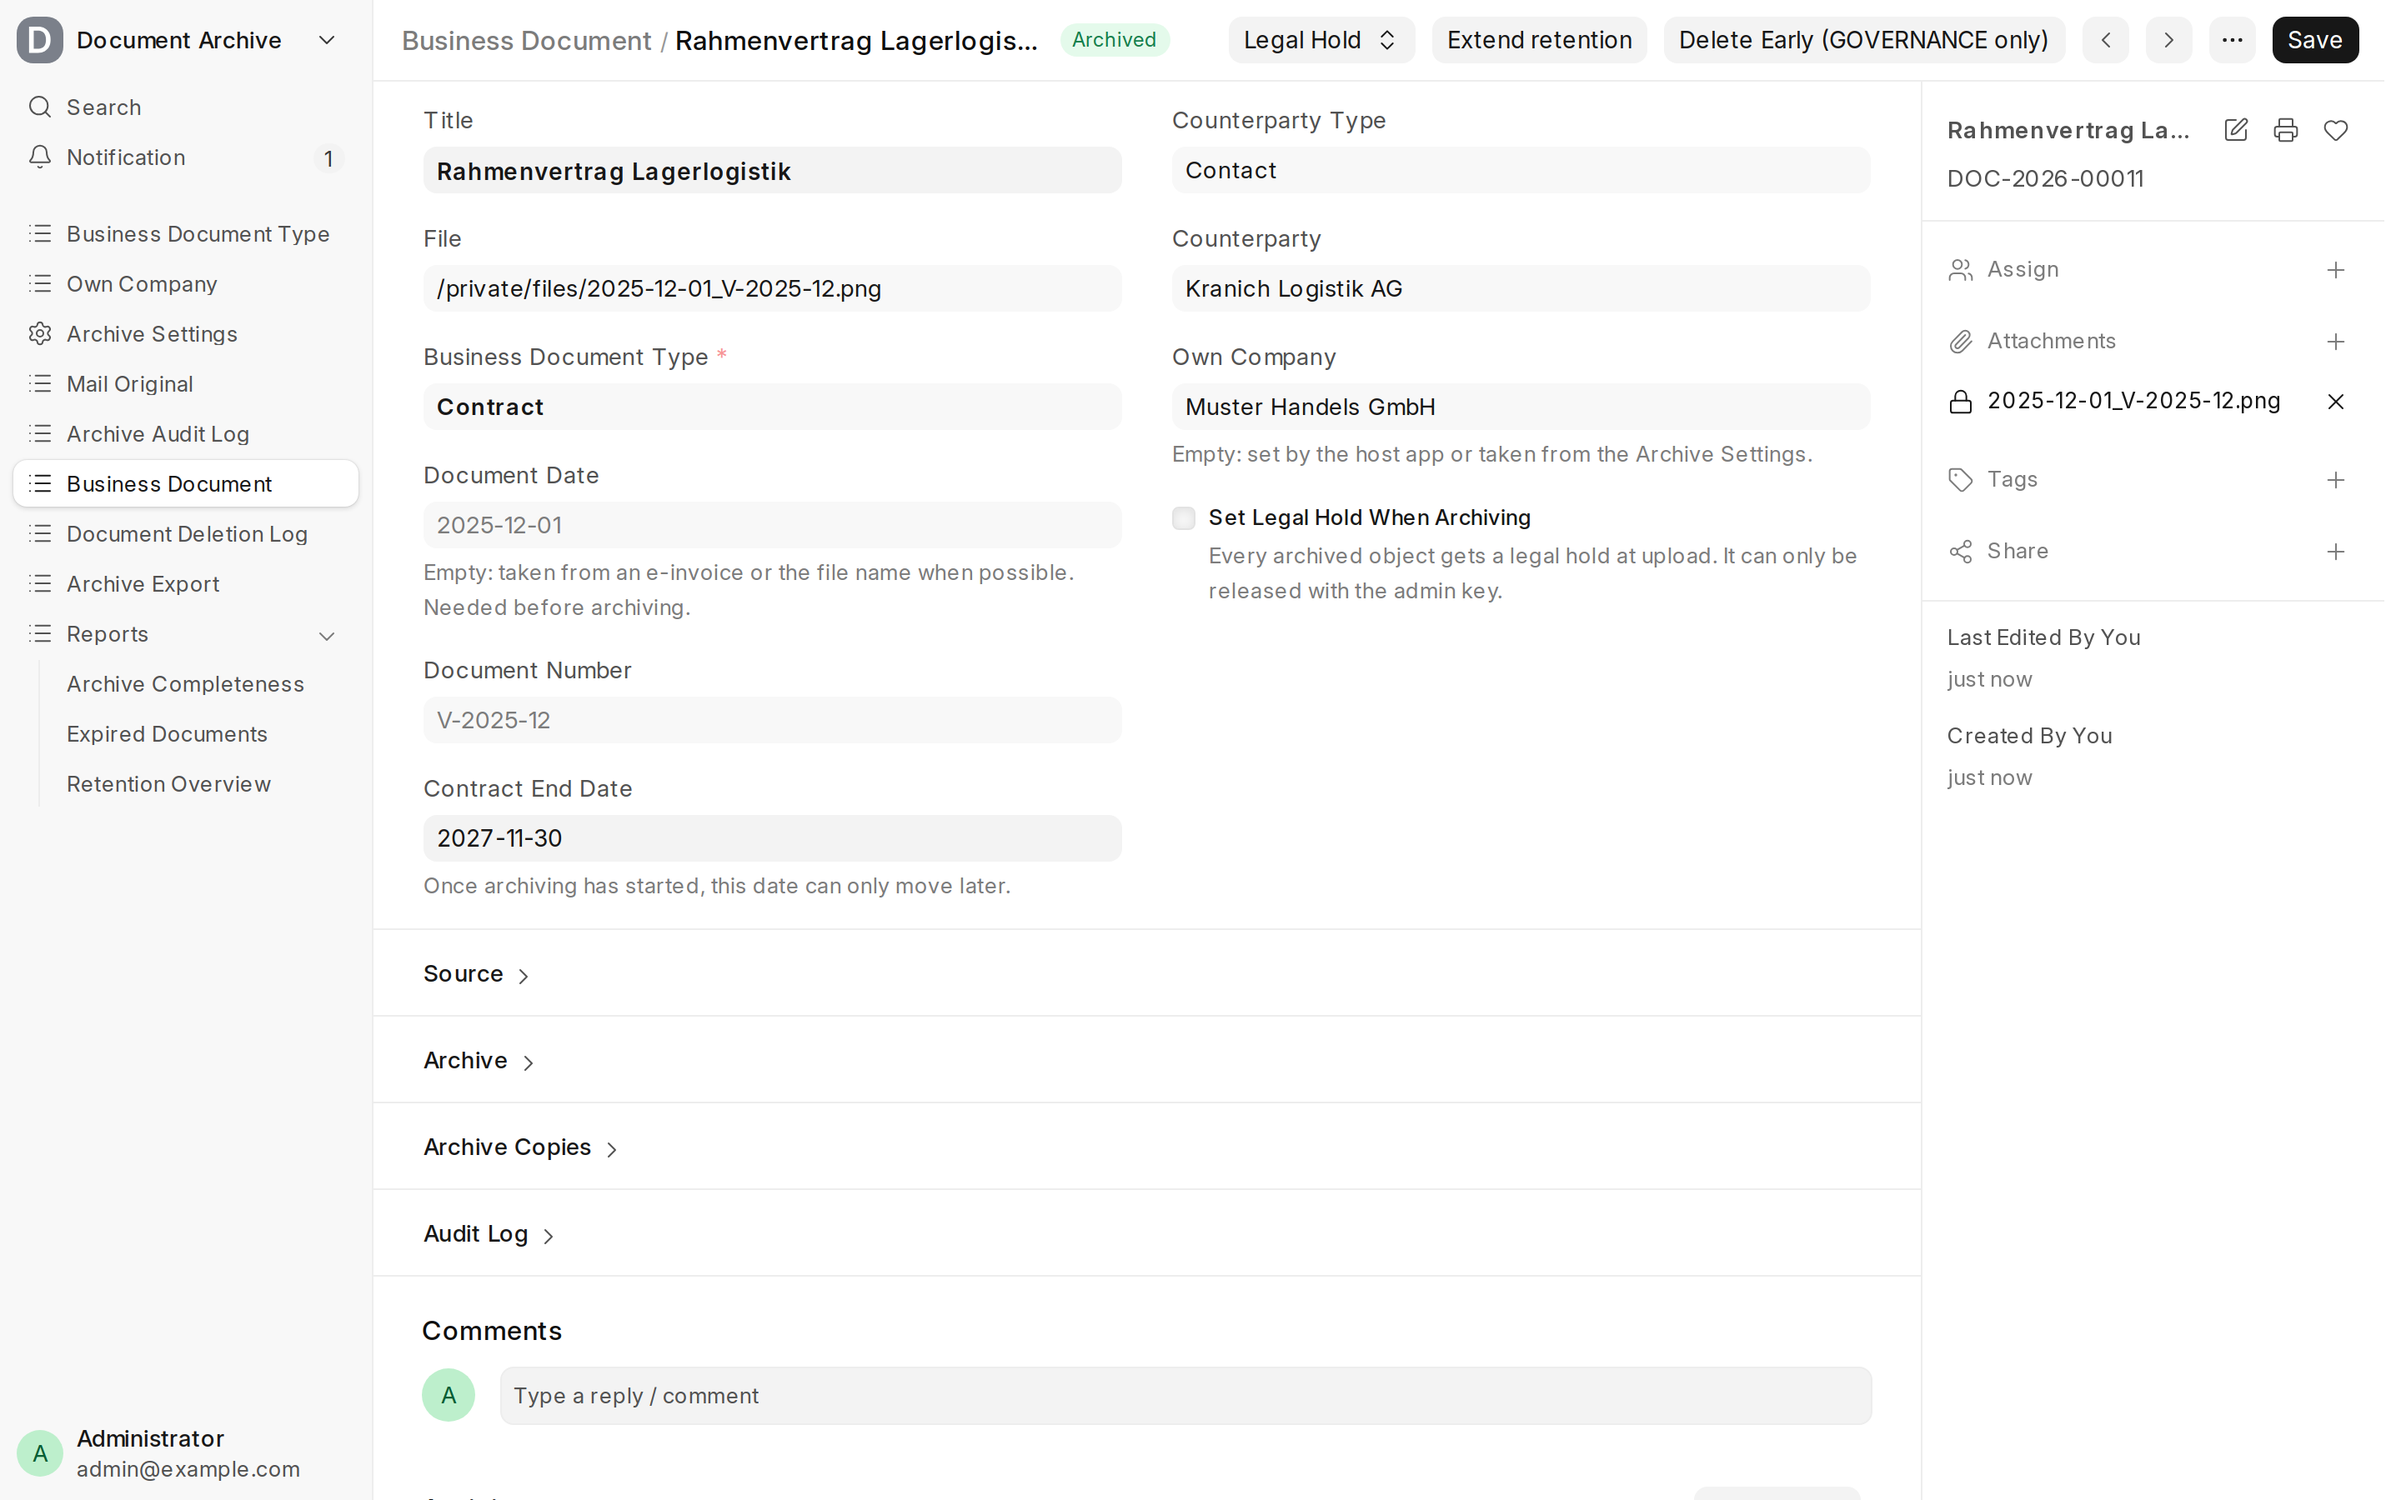
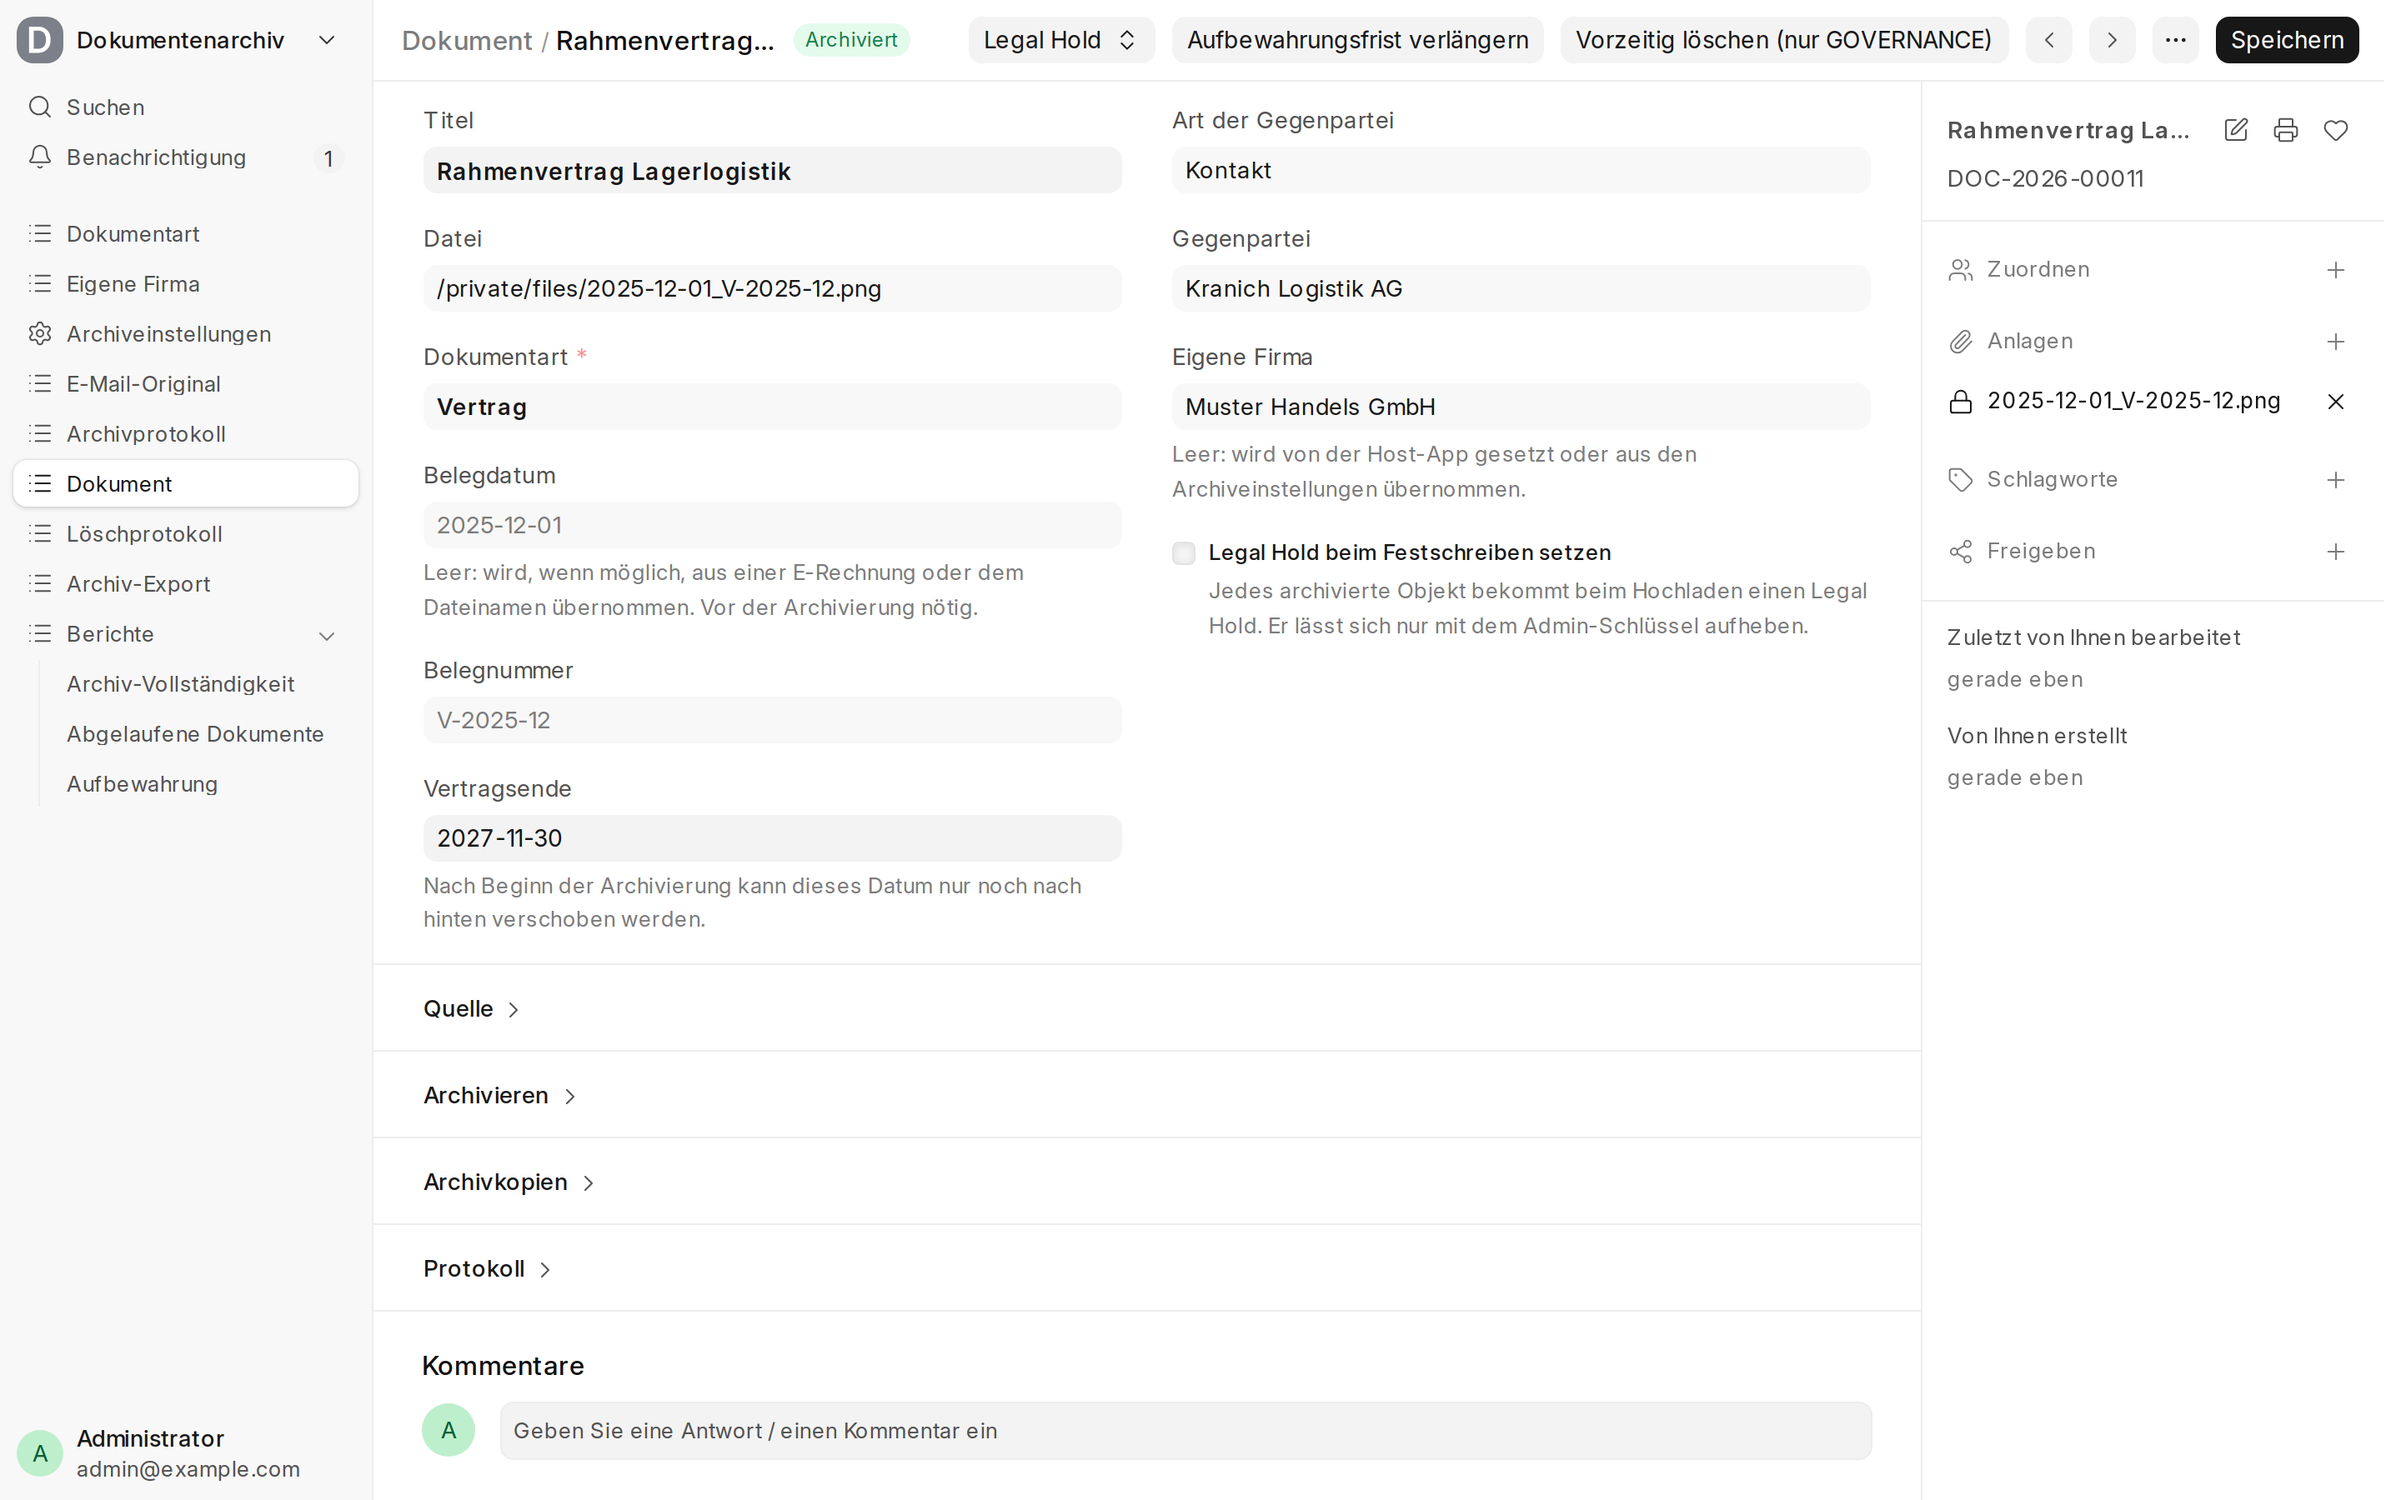
docs: German screenshots, documents panel on its own tab

diff --git a/docarchive/demo.py b/docarchive/demo.py
@@ -78,6 +78,7 @@ def fake_client(fakes, config):
 class Demo:
 	def build(self) -> dict:
 		frappe.set_user("Administrator")
+		frappe.local.lang = frappe.db.get_single_value("System Settings", "language") or "en"
 		self.user_roles()
 		self.company = self.own_company()
 		self.settings()
@@ -163,9 +164,10 @@ class Demo:
 		)
 
 	def panel_on_contacts(self):
+		last = frappe.get_meta("Contact").fields[-1].fieldname
 		for fieldname, fieldtype, label, after in (
-			("documents_section", "Section Break", "Documents", "links"),
-			("documents_html", "HTML", "Documents", "documents_section"),
+			("documents_tab", "Tab Break", "Documents", last),
+			("documents_html", "HTML", "Documents", "documents_tab"),
 		):
 			if not frappe.db.exists("Custom Field", {"dt": "Contact", "fieldname": fieldname}):
 				frappe.get_doc(
@@ -186,7 +188,7 @@ class Demo:
 					"dt": "Contact",
 					"view": "Form",
 					"enabled": 1,
-					"script": 'frappe.ui.form.on("Contact", {\n\trefresh(frm) {\n\t\tdocarchive.documents_panel(frm, "documents_html", "documents_section");\n\t},\n});\n',
+					"script": 'frappe.ui.form.on("Contact", {\n\trefresh(frm) {\n\t\tdocarchive.documents_panel(frm, "documents_html", "documents_tab");\n\t},\n});\n',
 				}
 			).insert(ignore_permissions=True)
 

diff --git a/scripts/screenshots.py b/scripts/screenshots.py
@@ -75,7 +75,7 @@ class Screens:
 
 	def counterparty_panel(self):
 		open_form(self.page, "contact", CONTACT)
-		self.page.locator("[data-fieldname='documents_html']").scroll_into_view_if_needed()
+		self.page.locator("#contact-documents_tab-tab, [data-fieldname='documents_tab'].nav-link").first.click()
 		shot(self.page, "counterparty-panel", 4000)
 
 	def document_form(self):

diff --git a/README.md b/README.md
@@ -133,7 +133,7 @@ frappe.ui.form.on("Customer", {
 });
 ```
 
-`docarchive.render_documents($wrapper, { counterparty_type, counterparty })` and `docarchive.upload_documents({ counterparty_type, counterparty, files, on_saved, defaults })` are available for custom layouts (`defaults` may hold `document_date`, `source_doctype` and `source_name`). `docarchive.show_mail(name)` and `docarchive.show_thread(name)` open the mail viewer and the thread. Set `docarchive.file_url = (file_url) => url` to open files in your own viewer.
+The third argument may also be a Tab Break, so the documents get their own tab on the form (the demo data does this on Contact). `docarchive.render_documents($wrapper, { counterparty_type, counterparty })` and `docarchive.upload_documents({ counterparty_type, counterparty, files, on_saved, defaults })` are available for custom layouts (`defaults` may hold `document_date`, `source_doctype` and `source_name`). `docarchive.show_mail(name)` and `docarchive.show_thread(name)` open the mail viewer and the thread. Set `docarchive.file_url = (file_url) => url` to open files in your own viewer.
 
 Rows the user can act on have a checkbox. A bar above the list then offers "Archive now", "Extend term", "Legal Hold" and, for Archive Admins, "Export" for the selected rows; rows without any of these show a disabled checkbox with the reason. Clicking a row opens a preview pane on the right (an overlay on narrow screens) with a fixed header (the same labelled fields for every document, empty ones as "–") and the main file and attachments as tabs. Up/Down or j/k move through the list, Esc closes, and the pane can be resized. PDFs and images show inline, other files as a download. HTML is never rendered by docarchive itself: set `docarchive.html_preview = (file_url, title) => Promise<HTMLIFrameElement>` to return a sandboxed frame from your app, otherwise the pane links to `docarchive.file_url`.
 
